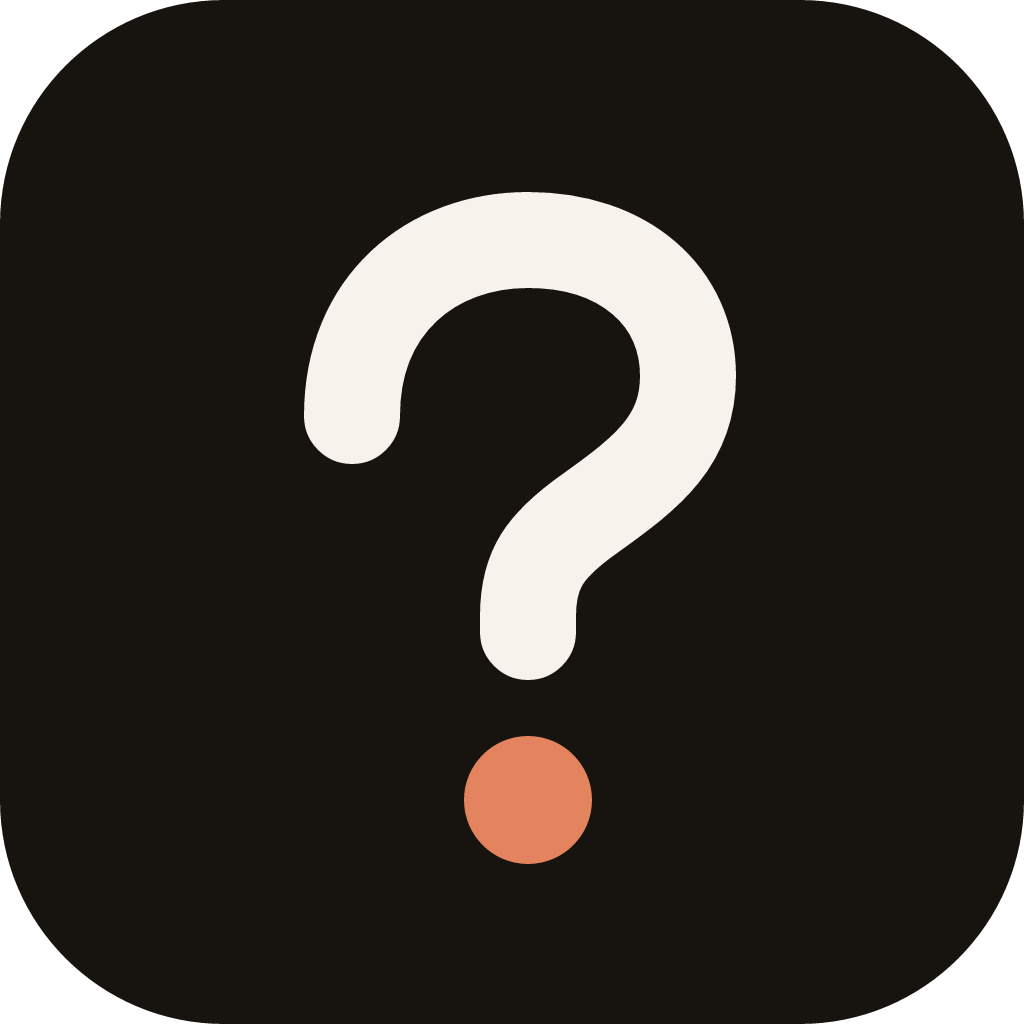
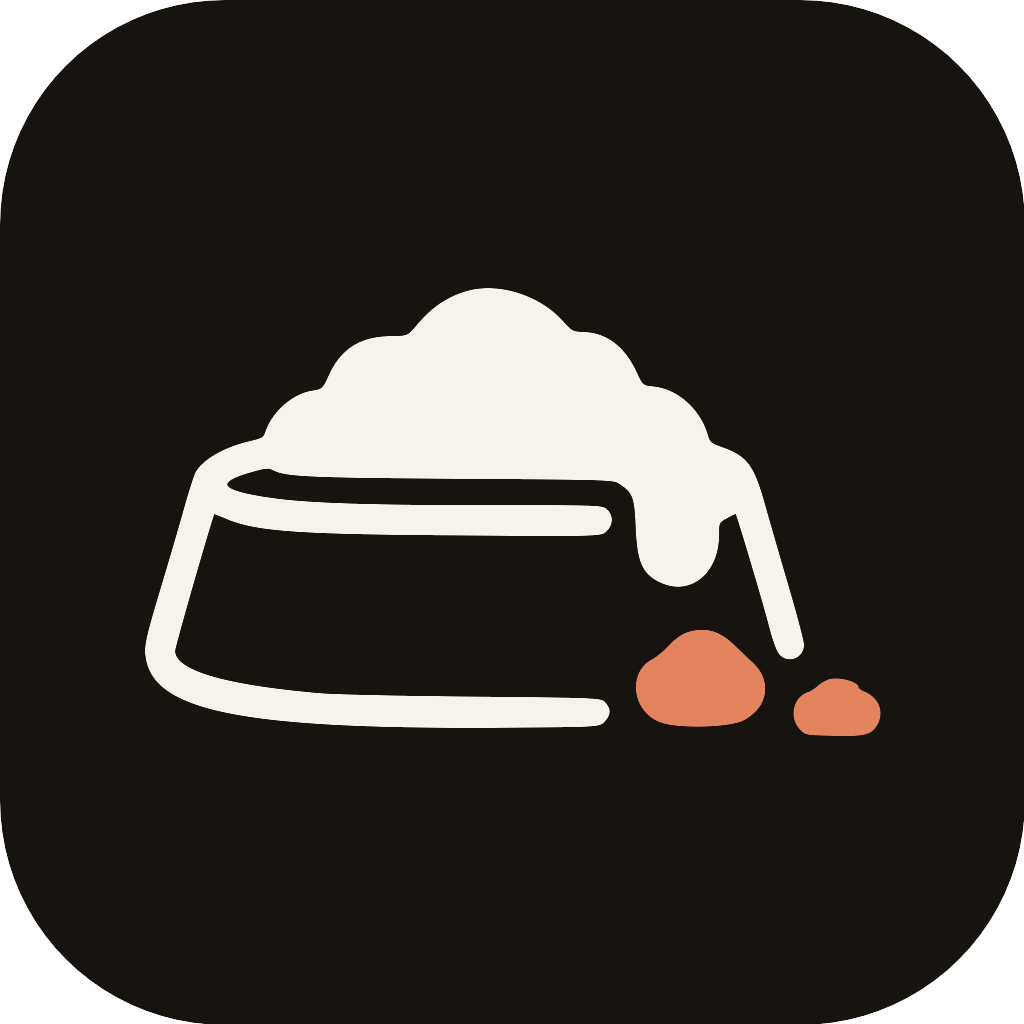
website: dog bowl becomes the brand mark; Popularity before Quality
The favicon, header mark, logo lockups, stacked logos and social card now
use the Slop dog bowl (paper on ink, fallen lumps in the accent colour)
in place of the question mark. The small Unknown verdict glyph keeps the
question mark since it means unknown, not slop.

Popularity is shown before Quality everywhere a grade appears (list rows,
score tiles, subscores, history columns, owner checklist) so the order
matches the verdict words, e.g. Fringe Craft.

Claude-Session: https://claude.ai/code/session_01KvPtMtyxYdty2p5ZWtZdTm

Changed region(s): [[0.125, 0.1875, 0.875, 0.8438]]

diff --git a/website/src/app/s/[id]/EntryView.tsx b/website/src/app/s/[id]/EntryView.tsx
@@ -73,15 +73,6 @@ export function EntryView({ id }: { id: string }) {
         </div>
         <div className="grid sm:grid-cols-2 divide-y sm:divide-y-0 sm:divide-x divide-line">
           <ScoreTile
-            label="Quality"
-            question="Is this real, maintained work by more than one person over time? Read from the repository."
-            value={grade?.quality ?? null}
-            word={grade ? qualityWord(grade.quality) : undefined}
-            sub={grade ? grade.qualityBreakdown.note ?? `Read from ${grade.qualityBreakdown.repo}, rules v${grade.heuristicsVersion}` : "Not graded yet"}
-            onClick={grade ? () => setDetail(detail === "quality" ? null : "quality") : undefined}
-            open={detail === "quality"}
-          />
-          <ScoreTile
             label="Popularity"
             question="Do the people who find it actually use it? Read from Google Analytics."
             value={grade?.popularity ?? null}
@@ -90,11 +81,20 @@ export function EntryView({ id }: { id: string }) {
             onClick={grade ? () => setDetail(detail === "popularity" ? null : "popularity") : undefined}
             open={detail === "popularity"}
           />
+          <ScoreTile
+            label="Quality"
+            question="Is this real, maintained work by more than one person over time? Read from the repository."
+            value={grade?.quality ?? null}
+            word={grade ? qualityWord(grade.quality) : undefined}
+            sub={grade ? grade.qualityBreakdown.note ?? `Read from ${grade.qualityBreakdown.repo}, rules v${grade.heuristicsVersion}` : "Not graded yet"}
+            onClick={grade ? () => setDetail(detail === "quality" ? null : "quality") : undefined}
+            open={detail === "quality"}
+          />
         </div>
       </div>
 
-      {grade && detail === "quality" && <QualityDetails grade={grade} />}
       {grade && detail === "popularity" && <PopularityDetails grade={grade} />}
+      {grade && detail === "quality" && <QualityDetails grade={grade} />}
 
       <OwnerPanel key={gaPick ? "pick" : "panel"} entry={entry} grade={grade} onChange={reload} gaPick={gaPick} onGaPicked={() => setGaPick(null)} initialTab={gaPick ? "analytics" : undefined} />
 
@@ -129,14 +129,14 @@ export function EntryView({ id }: { id: string }) {
           <div className="overflow-x-auto -mx-4 px-4 sm:mx-0 sm:px-0">
             <table className="w-full text-sm whitespace-nowrap">
               <thead className="text-xs uppercase tracking-wider text-muted">
-                <tr><th className="text-left py-1">Date</th><th className="text-right pl-4">Quality</th><th className="text-right pl-4">Popularity</th><th className="text-right pl-4">Verdict</th><th className="text-right pl-4">Rules</th></tr>
+                <tr><th className="text-left py-1">Date</th><th className="text-right pl-4">Popularity</th><th className="text-right pl-4">Quality</th><th className="text-right pl-4">Verdict</th><th className="text-right pl-4">Rules</th></tr>
               </thead>
               <tbody>
                 {history.map((h) => (
                   <tr key={h.id} className="border-t border-line">
                     <td className="py-1.5">{new Date(h.createdAt).toLocaleString()}</td>
-                    <td className="text-right tabular-nums pl-4">{h.quality ?? "?"}</td>
                     <td className="text-right tabular-nums pl-4">{h.popularity ?? "?"}</td>
+                    <td className="text-right tabular-nums pl-4">{h.quality ?? "?"}</td>
                     <td className="text-right pl-4"><VerdictBadge verdict={h.verdict} size="sm" /></td>
                     <td className="text-right text-muted pl-4">v{h.heuristicsVersion}</td>
                   </tr>

diff --git a/website/src/components/Score.tsx b/website/src/components/Score.tsx
@@ -64,14 +64,14 @@ export const popularityWord = (n: number | null | undefined) => (n === null || n
 export function MiniScores({ quality, popularity }: { quality: number | null | undefined; popularity: number | null | undefined }) {
   return (
     <div className="flex items-center gap-3 text-sm tabular-nums whitespace-nowrap">
-      <span title="Quality: real, maintained work by more than one person over time">
-        <span className="text-muted mr-1">Quality</span>
-        <span className={`font-semibold ${scoreClass(quality)}`}><WordIcon word={qualityWord(quality)} size="1em" className="inline-block align-[-0.15em] mr-1" />{quality ?? "unknown"}</span>
-      </span>
-      <span className="text-line">·</span>
       <span title="Popularity: do the people who find it use it">
         <span className="text-muted mr-1">Popularity</span>
         <span className={`font-semibold ${scoreClass(popularity)}`}><WordIcon word={popularityWord(popularity)} size="1em" className="inline-block align-[-0.15em] mr-1" />{popularity ?? "unknown"}</span>
+      </span>
+      <span className="text-line">·</span>
+      <span title="Quality: real, maintained work by more than one person over time">
+        <span className="text-muted mr-1">Quality</span>
+        <span className={`font-semibold ${scoreClass(quality)}`}><WordIcon word={qualityWord(quality)} size="1em" className="inline-block align-[-0.15em] mr-1" />{quality ?? "unknown"}</span>
       </span>
     </div>
   );

diff --git a/website/src/app/s/[id]/OwnerPanel.tsx b/website/src/app/s/[id]/OwnerPanel.tsx
@@ -161,10 +161,10 @@ function RequestGrade({ entry, user, onDone }: { entry: Entry; user: { githubLog
     <div className="flex flex-col gap-4 text-sm">
       <ul className="card p-3 bg-paper flex flex-col gap-1.5">
         <li className="text-fresh">✓ Signed in as {user.githubLogin}; the repository is read with your GitHub access</li>
+        <li className={entry.analyticsConnected ? "text-fresh" : "text-slop"}>{entry.analyticsConnected ? "✓ Google Analytics connected" : "✗ Google Analytics not connected: Popularity will be unknown"}{!entry.analyticsConnected && <span className="text-muted ml-2">(analytics tab)</span>}</li>
         {entry.kind === "site" && (
           <li className={repoOk ? "text-fresh" : "text-slop"}>{repoOk ? "✓ Repository linked" : "✗ No repository linked: Quality will be unknown"}{!repoOk && <span className="text-muted ml-2">(repo tab)</span>}</li>
         )}
-        <li className={entry.analyticsConnected ? "text-fresh" : "text-slop"}>{entry.analyticsConnected ? "✓ Google Analytics connected" : "✗ Google Analytics not connected: Popularity will be unknown"}{!entry.analyticsConnected && <span className="text-muted ml-2">(analytics tab)</span>}</li>
       </ul>
       <label className="flex items-start gap-2 card p-3 bg-paper">
         <input type="checkbox" className="mt-1" checked={accept} onChange={(e) => setAccept(e.target.checked)} />

diff --git a/website/public/brand/README.md b/website/public/brand/README.md
@@ -1,14 +1,14 @@
 # Is it slop? brand
 
-- `mark.svg` / `mark.png` — the mark: ink rounded square, paper question mark, accent dot. Use at any size; 1024px PNG included.
-- `mark-light.*` — paper square, ink question mark, for dark backgrounds.
+- `mark.svg` / `mark.png` — the mark: ink rounded square, paper dog bowl heaped with slop, two fallen lumps in the accent colour. Use at any size; 1024px PNG included.
+- `mark-light.*` — paper square, ink bowl, for dark backgrounds.
 - `logo.svg` / `logo.png` — horizontal lockup, ink on transparent.
 - `logo-on-dark.*` — horizontal lockup, paper on transparent.
 - `logo-paper.png`, `logo-ink.png` — horizontal lockup on a solid background.
 - `logo-stacked-*.png` — mark above wordmark.
 - `/og.png` — 1200x630 social card.
 
-Colours: ink #17140f, paper #f7f3ec, accent #e3845f. Wordmark is Instrument Serif, "slop" in italic, converted to paths.
+Colours: ink #17140f, paper #f7f3ec, accent #e3845f. Wordmark is Instrument Serif, "slop" in italic, converted to paths. The bowl is the Slop verdict icon (see below); the SVGs are the source and the PNGs are rendered from them with ImageMagick.
 
 ## Verdict icons (`icons/`)
 
